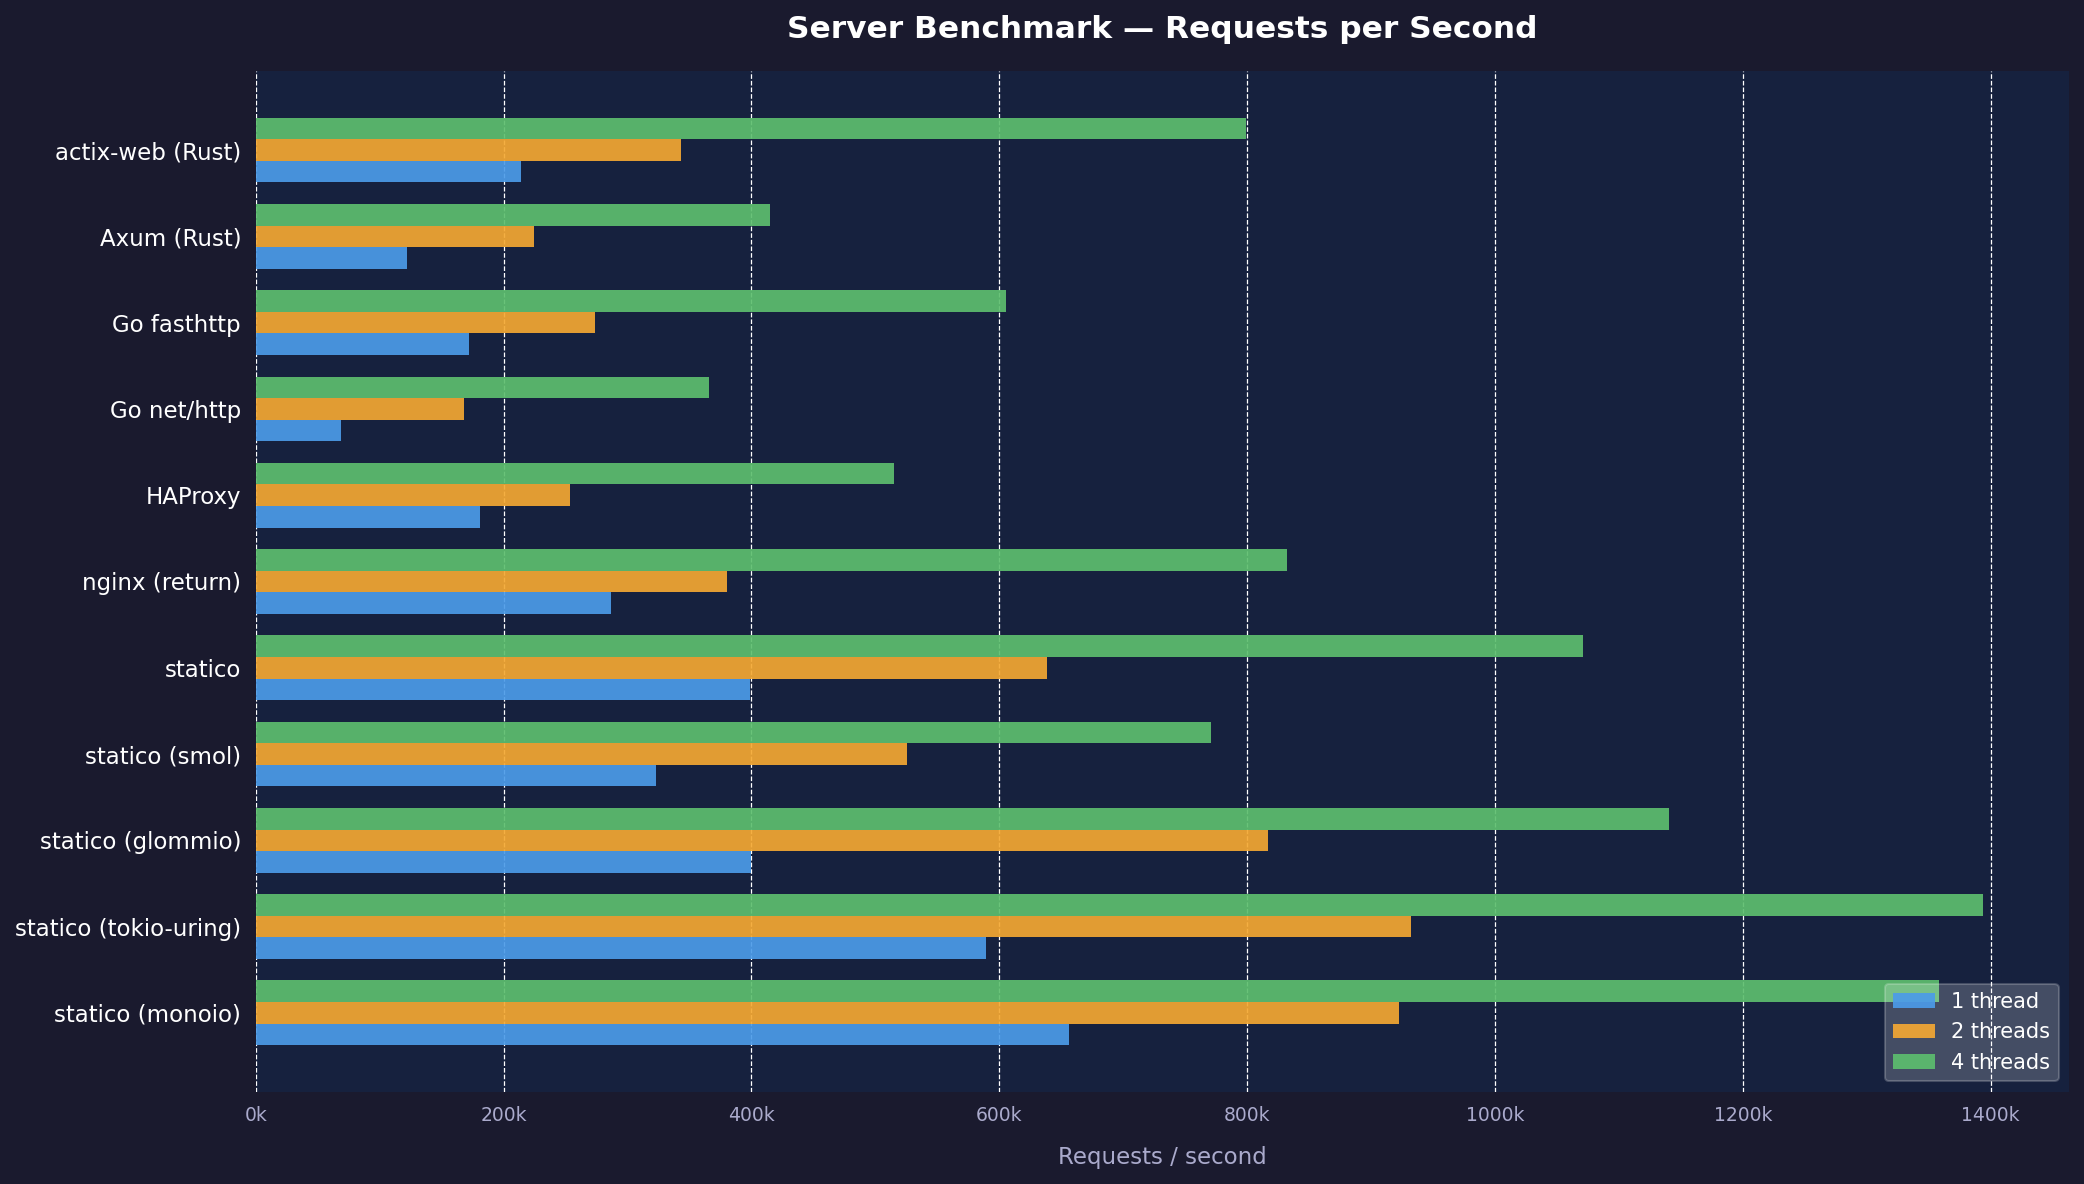
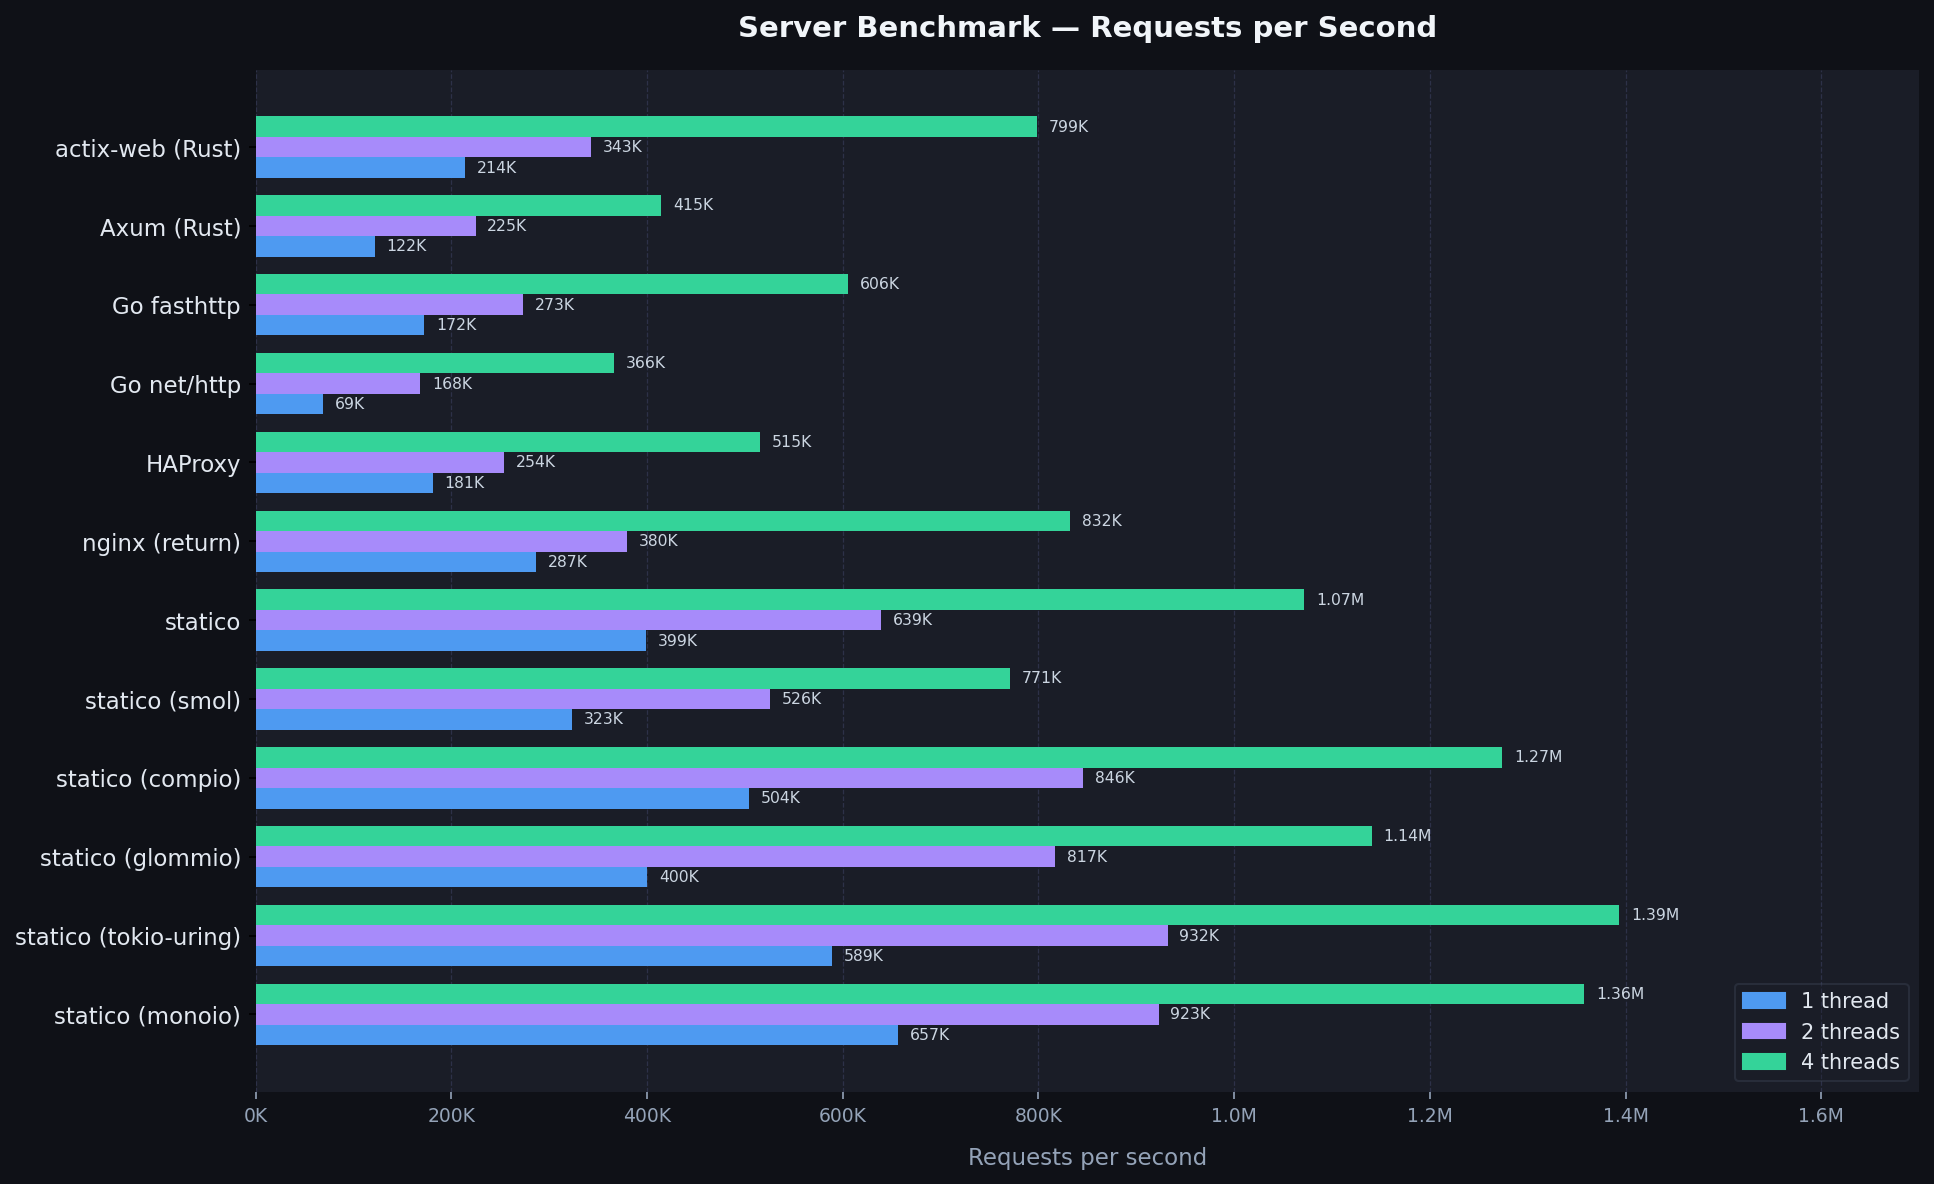
Bump version to 0.9.0 and add compio benchmark
Regenerate benchmark.png and update README table to include compio
results

diff --git a/README.md b/README.md
@@ -26,6 +26,7 @@ The following benchmark compares Statico against other popular HTTP servers and 
 | **statico (monoio) ** | 656,517 | 922,825  | 1,358,045 |
 | **statico (tokio-uring) ** | 589,086 | 932,143 | 1,393,573 |
 | **statico (glommio) ** | 400,036 | 816,936 | 1,140,535|
+| **statico (compio) ** | 503,854 | 845,768 | 1,274,065 |
 | **statico (smol) ** | 323,267 | 525,824 | 771,202 |
 | **statico** | 399,025 | 638,767 | 1,071,433 |
 | nginx (return) | 286,960 | 379,974 | 832,082 |
